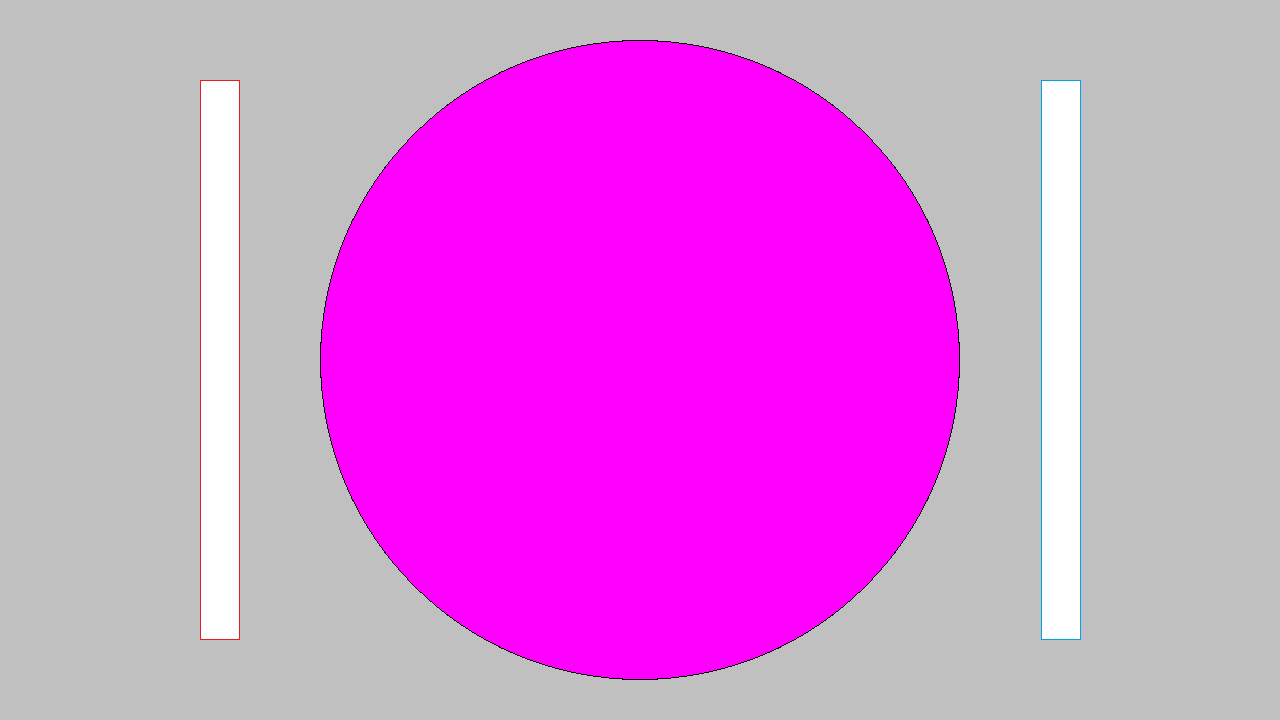
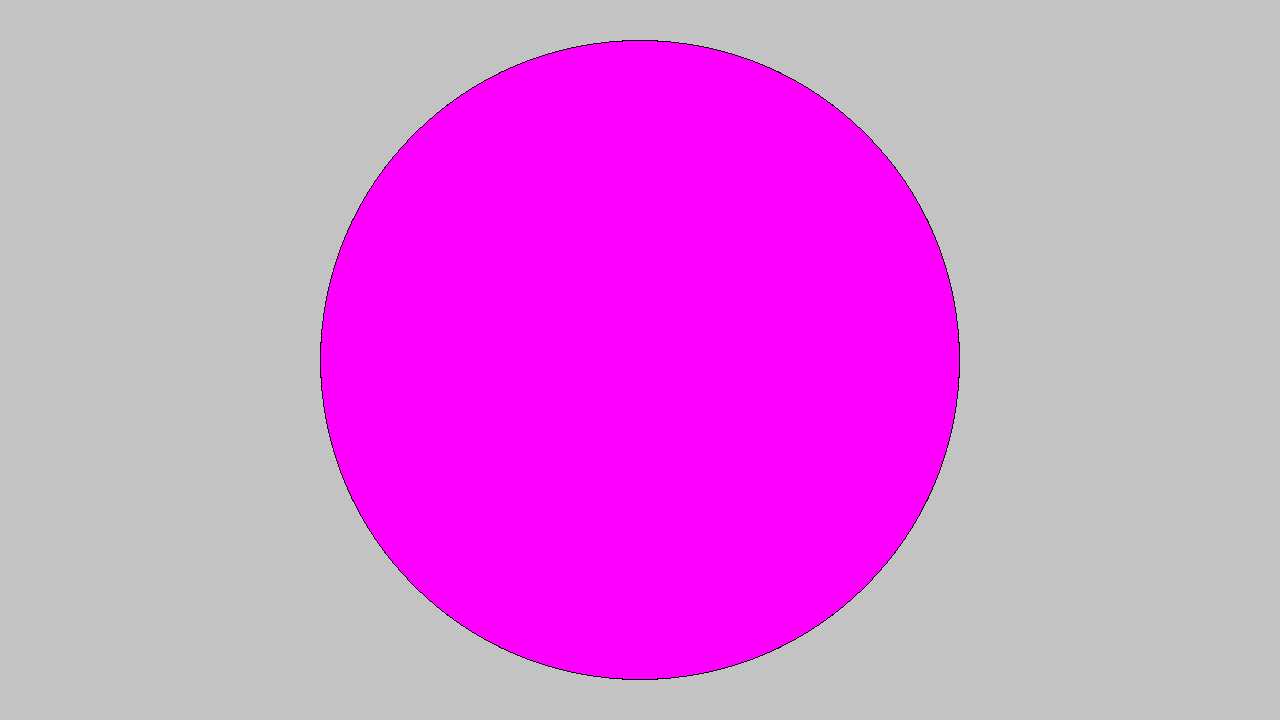
fixed bug, adding story

Changed region(s): [[0.8125, 0.0917, 0.8438, 0.8861], [0.1562, 0.0917, 0.1875, 0.8861]]

diff --git a/RTTT_Main.py b/RTTT_Main.py
@@ -52,6 +52,7 @@ def game():
     player = Player.Player(100, 10, pygame.image.load('player.png'))
     dmgobj = pygame.image.load('damageobj.png')
     goldobj = pygame.image.load('goldobj.png')
+    healthbar = pygame.image.load('healthbar.png')
 
     objTiming = 0
     atkTiming = 0
@@ -145,9 +146,11 @@ def game():
 
         # Draw ===================================================
         _display.blit(bg, (0, 0))
-        tunnel.blit(_display, player, stages[level - 1][1], movTiming * movDirection)
+        tunnel.blit(_display, player, movTiming * movDirection)
 
+        _display.blit(healthbar, (0,0))
         player.blit(_display)
+        stages[level - 1][1].blit(_display)
         pygame.draw.rect(_display, (255, 0, 0), (550, 300, int(180 * attackGauge / 100), 5))
         pygame.display.update()
         # ========================================================

diff --git a/Tunnel.py b/Tunnel.py
@@ -46,7 +46,7 @@ class Tunnel(object):
     def setRedundancy(self, red):
         self.__redundancy = red
 
-    def blit(self, display, player, enemy, mov):
+    def blit(self, display, player, mov):
         tunnel_rot = pygame.transform.rotate(self.__appe, -60 * player.getLane() + (12 * mov))
         tunnel_image_pos = tunnel_rot.get_rect()
         tunnel_image_pos.center = (640, 360)
@@ -55,4 +55,3 @@ class Tunnel(object):
         for l in self.__lanes:
             for o in l[::-1]:
                 o.blit(display, player, mov)
-        enemy.blit(display)

diff --git a/Additional.py b/Additional.py
@@ -1,0 +1,19 @@
+import pygame
+
+
+class Story(object):
+    def __init__(self, stage):
+        if stage == 1:
+            self.story = pygame.image.load('story1.png')
+        elif stage == 2:
+            self.story = pygame.image.load('story2.png')
+        elif stage == 3:
+            self.story = pygame.image.load('story3.png')
+        elif stage == 4:
+            self.story = pygame.image.load('story4.png')
+        else:
+            pass
+
+    def blit(self, display):
+        # will be implemented
+        pass
